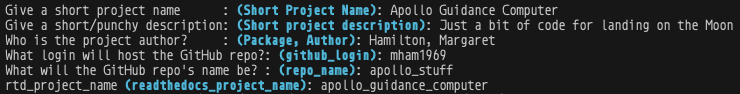
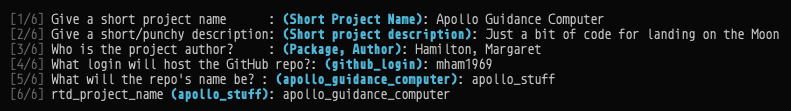
Update questions image and some tweaks to the README.

diff --git a/README.md b/README.md
@@ -2,7 +2,9 @@
 This template takes the effort out of starting from a good place.
 
 ## Getting Started
-***Make sure Cookiecutter is installed...***
+***Installing the needed dependencies and building your new project is easy with the following steps ...***
+
+### Make sure Cookiecutter is installed
 ``` console
 pip install cookiecutter
 ```
@@ -10,24 +12,50 @@ pip install cookiecutter
 ``` console
 pipx install cookiecutter
 ```
-***...use it to render the project...***
+
+### Make sure Poetry is installed
+Use the official installer
+``` console
+curl -sSL https://install.python-poetry.org | python3 -
+```
+*(or better yet, use [pipx](https://pypa.github.io/pipx/))*
+``` console
+pipx install poetry
+```
+
+### Render the project
 ``` console
 cookiecutter gh:ADACS-Australia/adacs_template_python_base
-
 ```
-***...answer the questions...***
+
+### Answer the questions
 
 ![ADACS Python Template Questions](https://github.com/ADACS-Australia/adacs_template_python_base/blob/main/docs/assets/adacs_python_template_cookiecutter_questions.png?raw=true)
 
-***...and configure the services you need using [these instructions](https://adacs-template-python-base.readthedocs.io/en/latest/content/configuring_services.html).***
+
+### Install the new project
+Create a new virtual environment using your favourite method (if you don't know how to do this, go learn about it now) and install
+the project by running the following in the new repo directory:
+``` console
+poetry install --all-extras
+```
+
+### Configure the services you need
+
+Follow [these instructions](https://adacs-template-python-base.readthedocs.io/en/latest/content/configuring_services.html) to
+configure GitHub, Read the Docs, PyPI, etc.
 
 ## What do you get for this?
 ***A codebase that eases collaboration and automatically:***
-* Ensures that all commits on the main branch and released versions build correctly and pass all unit tests
-* Enforces code formatting and linting policies
-* Manages code and release versioning
-* (optionally) publishes your code to PyPI so people can easilly install it
-* (optionally) updates, builds and publishes documentation to *Read the Docs*.
+
+* Ensures that all code on the main branch and released versions:
+    * builds correctly (including documentation) and passes all unit tests
+    * conforms to the project's code formatting and linting policies
+    * is properly versioned
+
+* And optionally, automates the following for new releases of your project:
+    * publication to [PyPI](https://pypi.org) so people can easilly install it
+    * publication of updated documentation to *Read the Docs*
 
 ***Other ADACS Python templates can then be applied to this base template to quickly kickstart a new project.***
 
